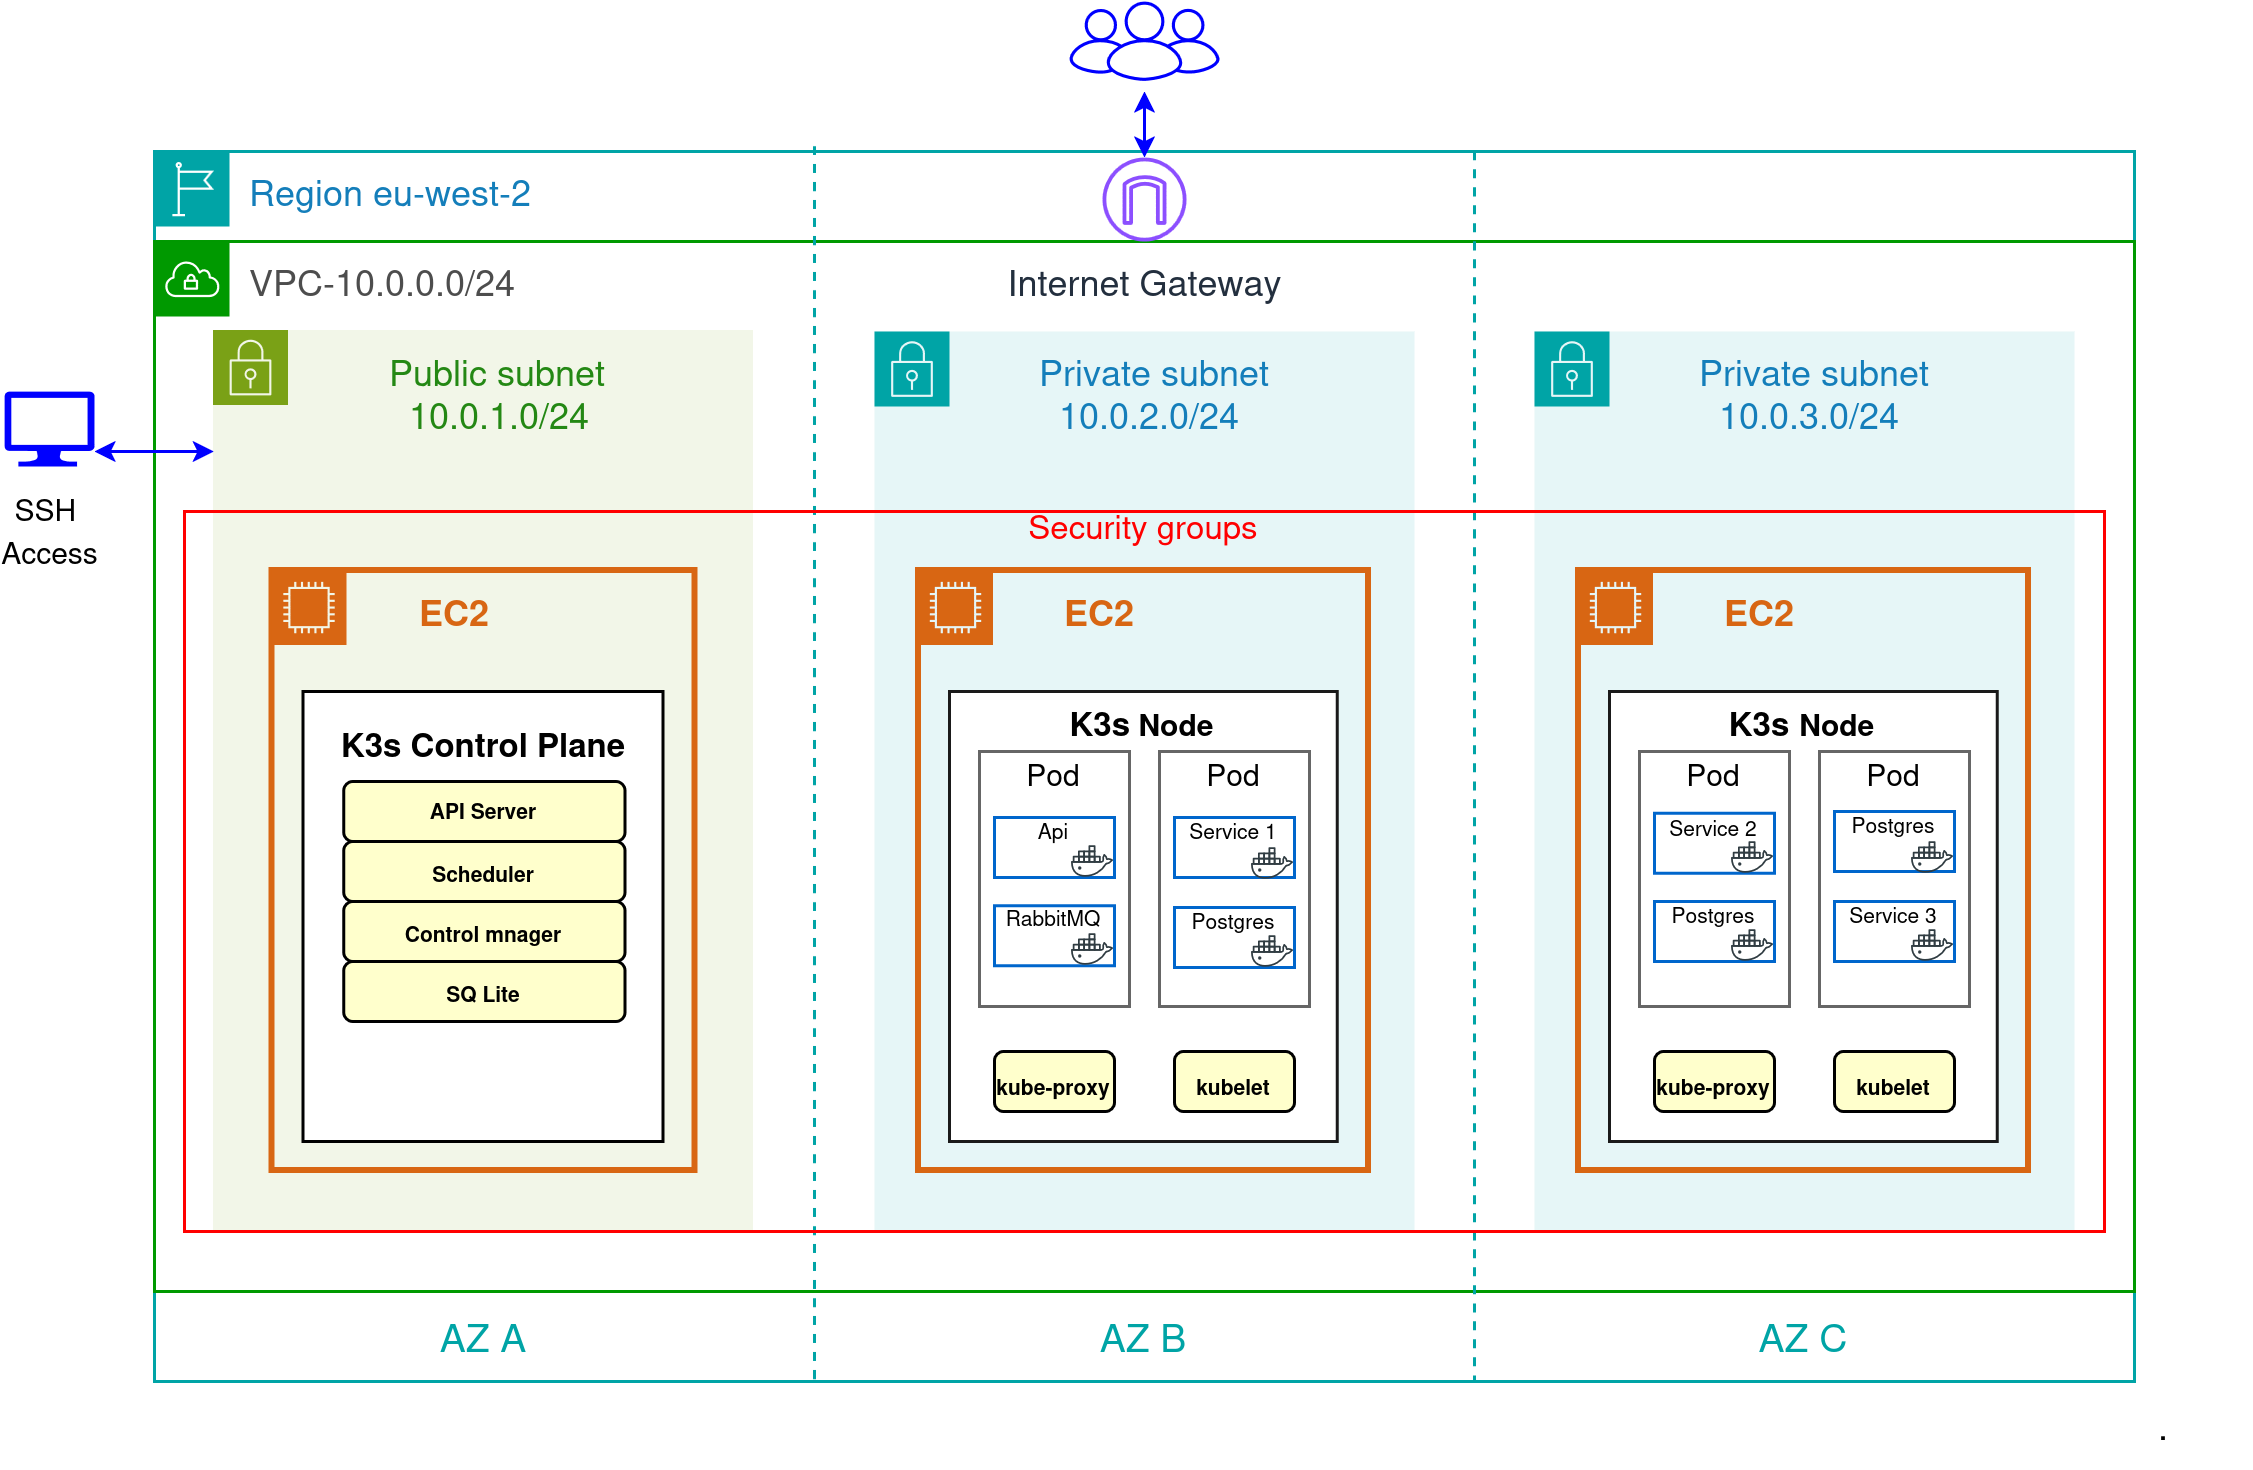
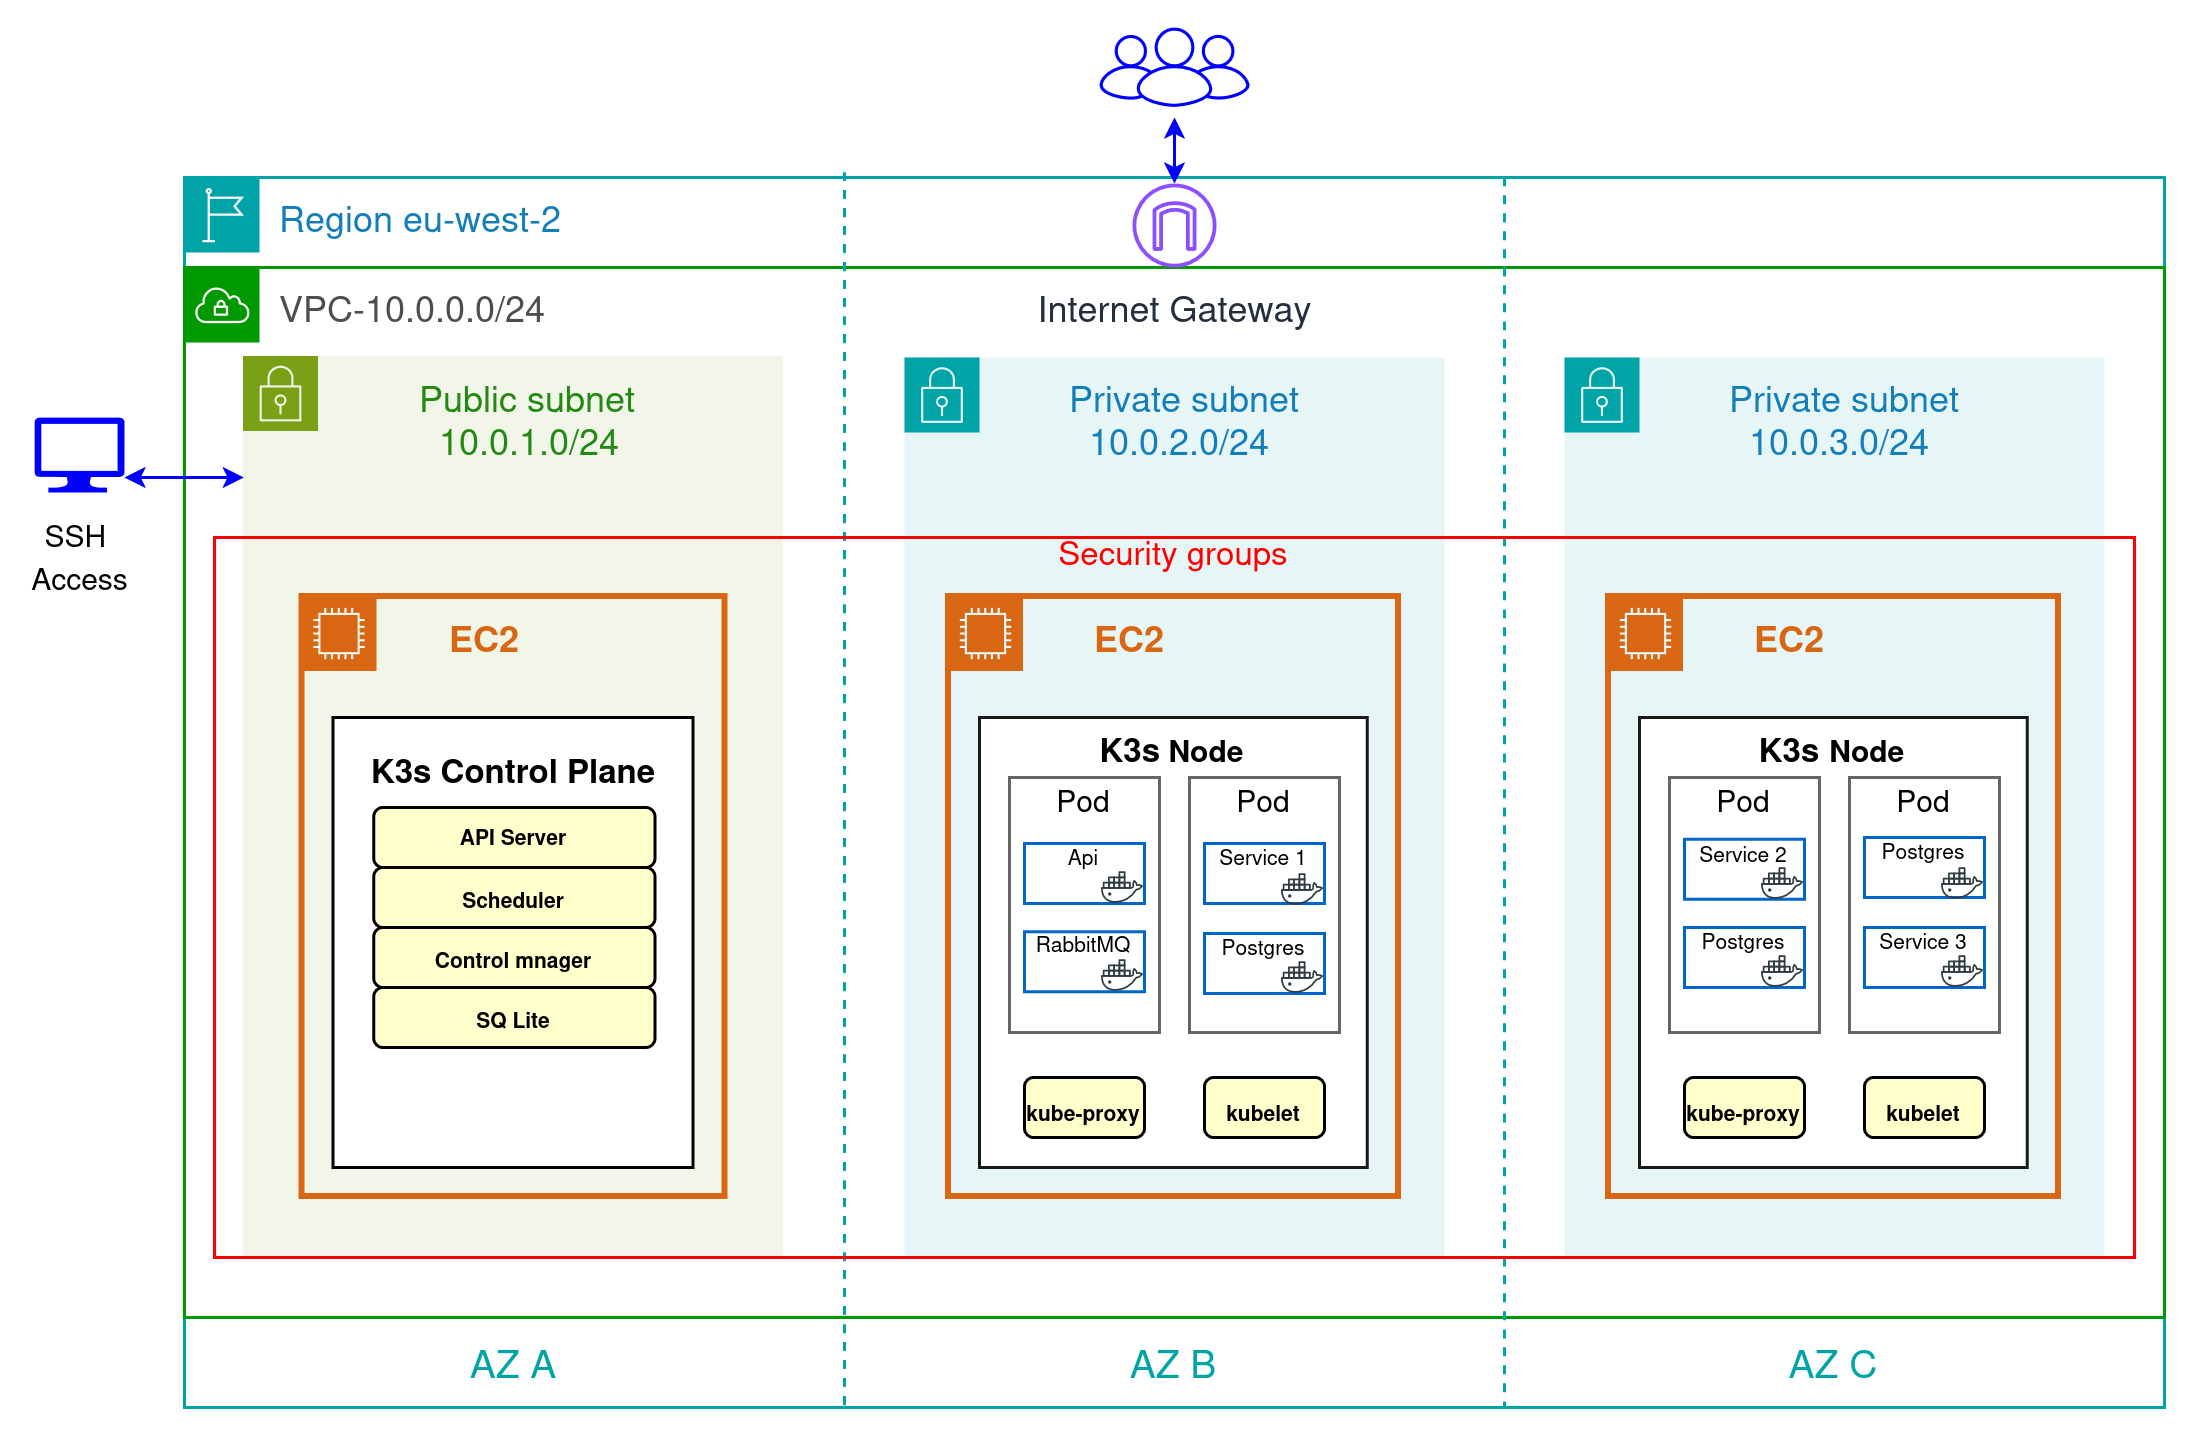
Add readme

diff --git a/README.md b/README.md
@@ -1,9 +1,8 @@
 
-============================================================================
-
-# Distributed Payment Platform - Saga Choreography
+# Distributed Payment Platform: Saga Choreography
 
 ## Indice
+
 1. Overview
 2. Architecture of Application
 3. Behavior of Application
@@ -22,13 +21,14 @@
     - Deployment microservices
 8. Observability and monitoring
 
----
+
 
 ## Overview
 
 Traditional banking systems can have difficulties when they need to coordinate operations between independent services without using one central database. This project shows how distributed transactions can be managed with the Saga choreography pattern. Each service completes its own local transaction and publishes an event that starts the next step, without using a central coordinator.
 
 ---
+
 
 ## Architecture of Application
 
@@ -50,13 +50,15 @@ owns its own PostgreSQL database.
 - **Ledger Service**: stores a permanent record of all money movements and works as the accounting ledger of the system.
 [ledger-service/README.md](ledger-service/README.md)
   
-  ---
-  
+---
+ 
+ 
 ## Behavior of Application
 
 ### Events and Transactions
 
 The Saga is implemented as a sequence of local transactions and asynchronous events. Each service publishes the result of its transaction, while compensating transactions are used when the operation fails or is cancelled.
+
 
 #### Application transactions
 
@@ -67,6 +69,7 @@ The Saga is implemented as a sequence of local transactions and asynchronous eve
 | Account Service | `reserveAmount()` | `releasedAmount()` |
 | Ledger Service | `recordMovement()` | `releaseMovement()` |
 
+
 #### Events published and consumed
 
 | Service | Events published | Events consumed |
@@ -76,11 +79,13 @@ The Saga is implemented as a sequence of local transactions and asynchronous eve
 | Account Service | `amount.reserved`<br>`amount.deducted`<br>`amount.rejected` | `commission.calculated`<br>`movement.recorded`<br>`movement.rejected`<br>`operation.canceled` |
 | Ledger Service | `movement.recorded`<br>`movement.rejected`<br>`operation.canceled` | `amount.reserved`<br>`amount.deducted`<br>`operation.canceled` |
 
+
 ### Happy Path Flow
 
 In the successful flow, every service completes its local transaction without errors. Each published event starts the next step until the payment is completed and the account and ledger are updated.
 
 ![Happy Path Diagram](docs/happy-path-diagram.png)
+
 
 ### Cancellation Flow
 
@@ -88,8 +93,8 @@ If one of the services rejects the operation or reports an error, the cancellati
 
 ![Cancellation Flow Diagram](docs/cancelation-diagram.png)
 
----
-    
+
+
 ## Tech Stack
 
 **Backend**
@@ -110,30 +115,40 @@ If one of the services rejects the operation or reports an error, the cancellati
 **CI/CD**
 - **GitHub Actions**: automated pipeline for building Docker images in Kubernetes K3s
 
----
+
 
 ## Design of Infraestructure
 
-The application infrastructure is deployed in AWS. Terraform creates the required cloud resources, while K3s manages the application workloads inside the Kubernetes cluster.
+The infrastructure runs in the AWS `eu-west-2` region and is created with Terraform. It includes a network, three EC2 instances, and a K3s cluster distributed across three Availability Zones.
 
 ![Infrastructure](docs/infrastructure-diagram.png)
 
 
- - **AWS and Terraform** — AWS provides the computing and networking resources required by the application. Terraform defines and creates these resources using infrastructure as code.
+- **VPC** — all infrastructure resources are placed inside a `10.0.0.0/16` Virtual Private Cloud.
 
-- **Kubernetes (K3s)** — K3s manages the microservices inside the cluster. It deploys the containers, maintains the required replicas, and provides internal communication between services.
+- **Subnets** — the VPC has one public subnet for the K3s server and two private subnets for the worker nodes. Each subnet is located in a different Availability Zone.
 
----
+- **Internet connectivity** — the Internet Gateway connects the public subnet to the Internet. The NAT Gateway allows the private worker nodes to access the Internet without accepting direct connections from outside the VPC.
+
+- **EC2 instances** — one EC2 instance runs the K3s control plane, and two EC2 instances work as worker nodes.
+
+- **Security groups** — security groups control access to SSH, the K3s API, the application `NodePort`, PostgreSQL, and communication between the cluster nodes.
+
+
 
 ## Deployment of microservices
 
-The deployment process packages each microservice as a Docker image and uses GitHub Actions to automate the delivery of new application versions.
+Each microservice is packaged as a Docker image. GitHub Actions automates the build and publication of the images and applies the Kubernetes manifests to the K3s cluster.
 
-- **Docker** — each microservice is packaged as an independent Docker image, including the application and its required dependencies.
+### Docker
 
-- **CI/CD with GitHub Actions** — GitHub Actions automates the build and publication of Docker images and deploys the Kubernetes configuration to the K3s cluster.
+Each service has its own Docker image containing the application and its runtime dependencies.
 
----
+### CI/CD with GitHub Actions
+
+GitHub Actions builds and publishes the Docker images and deploys the Kubernetes resources required by the application.
+
+
   
 ## Getting Started
 ## Local Test Evidence
